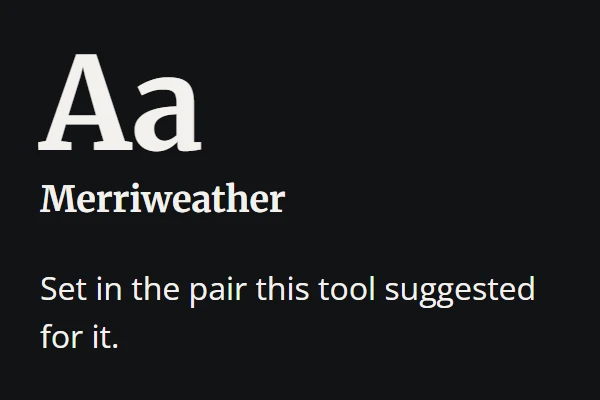
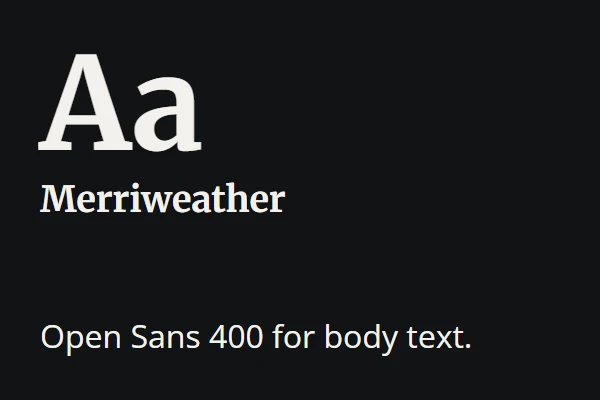
Wall art: each type pair prints its own body-face line, guide tile gets equal paper both sides
The generator also follows the export panel's format picker. Two runs on a warm cache give identical bytes.

Changed region(s): [[0.06, 0.69, 0.9, 0.78], [0.06, 0.81, 0.78, 0.9]]

diff --git a/src/data/authWall.generated.js b/src/data/authWall.generated.js
@@ -9,44 +9,44 @@ export const AUTH_WALL_GENERATED = {
     "f-merriweather-open-sans-dark.webp": {
       "width": 600,
       "height": 400,
-      "bytes": 13610,
[1 lines of base64/hex data omitted]
+      "bytes": 11908,
[1 lines of base64/hex data omitted]
     },
     "f-merriweather-open-sans-light.webp": {
       "width": 600,
       "height": 400,
-      "bytes": 13502,
[1 lines of base64/hex data omitted]
+      "bytes": 11776,
[1 lines of base64/hex data omitted]
     },
     "f-playfair-roboto-dark.webp": {
       "width": 600,
       "height": 400,
-      "bytes": 14064,
[1 lines of base64/hex data omitted]
+      "bytes": 11860,
[1 lines of base64/hex data omitted]
     },
     "f-playfair-roboto-light.webp": {
       "width": 600,
       "height": 400,
-      "bytes": 13804,
[1 lines of base64/hex data omitted]
+      "bytes": 11588,
[1 lines of base64/hex data omitted]
     },
     "f-space-grotesk-bitter-dark.webp": {
       "width": 600,
       "height": 400,
-      "bytes": 14104,
[1 lines of base64/hex data omitted]
+      "bytes": 11164,
[1 lines of base64/hex data omitted]
     },
     "f-space-grotesk-bitter-light.webp": {
       "width": 600,
       "height": 400,
-      "bytes": 13948,
[1 lines of base64/hex data omitted]
+      "bytes": 10878,
[1 lines of base64/hex data omitted]
     },
     "g-ocean-deep-guide.webp": {
       "width": 600,
       "height": 270,
-      "bytes": 16580,
[1 lines of base64/hex data omitted]
+      "bytes": 16374,
[1 lines of base64/hex data omitted]
     },
     "p-forest-floor.webp": {
       "width": 600,
@@ -82,7 +82,7 @@ export const AUTH_WALL_GENERATED = {
         "#A5D7E8"
       ],
[3 lines of base64/hex data omitted]
       "rawName": "uil4b-palette.png"
     },
     "p-forest-floor": {
@@ -93,7 +93,7 @@ export const AUTH_WALL_GENERATED = {
         "#F5EFE6"
       ],
[3 lines of base64/hex data omitted]
       "rawName": "uil4b-palette.png"
     },
     "p-paper-ink": {
@@ -104,7 +104,7 @@ export const AUTH_WALL_GENERATED = {
         "#112D4E"
       ],
[3 lines of base64/hex data omitted]
       "rawName": "uil4b-palette.png"
     },
     "p-terracotta-dusk": {
@@ -115,7 +115,7 @@ export const AUTH_WALL_GENERATED = {
         "#E76F51"
       ],
[3 lines of base64/hex data omitted]
       "rawName": "uil4b-palette.png"
     }
   },
@@ -139,6 +139,7 @@ export const AUTH_WALL_GENERATED = {
         "Montserrat",
         "IBM Plex Mono"
       ],
+      "specimenLine": "Roboto 400 for body text.",
[1 lines of base64/hex data omitted]
     },
     "f-space-grotesk-bitter": {
@@ -160,6 +161,7 @@ export const AUTH_WALL_GENERATED = {
         "Source Serif 4",
         "Montserrat"
       ],
+      "specimenLine": "Bitter 400 for body text.",
[1 lines of base64/hex data omitted]
     },
     "f-merriweather-open-sans": {
@@ -181,6 +183,7 @@ export const AUTH_WALL_GENERATED = {
         "Montserrat",
         "IBM Plex Mono"
       ],
+      "specimenLine": "Open Sans 400 for body text.",
[1 lines of base64/hex data omitted]
     }
   },
@@ -351,23 +354,23 @@ export const AUTH_WALL_GENERATED = {
       "steps": [
         {
           "step": "50",
-          "hex": "#CCF4FF"
+          "hex": "#F0F5FF"
         },
         {
           "step": "100",
-          "hex": "#ACDAFF"
+          "hex": "#CADCFF"
         },
         {
           "step": "200",
-          "hex": "#8DBFFF"
+          "hex": "#A4C2FF"
         },
         {
           "step": "300",
-          "hex": "#6EA4FF"
+          "hex": "#7EA7FF"
         },
         {
           "step": "400",
-          "hex": "#5188FF"
+          "hex": "#588BFF"
         },
         {
           "step": "500",
@@ -394,22 +397,22 @@ export const AUTH_WALL_GENERATED = {
           "hex": "#000349"
         }
       ],
[2 lines of base64/hex data omitted]
     },
     "t-e76f51": {
       "source": "#E76F51",
       "steps": [
         {
           "step": "50",
-          "hex": "#FFE2CB"
+          "hex": "#FFF2EE"
         },
         {
           "step": "100",
-          "hex": "#FFC5AB"
+          "hex": "#FFCFC0"
         },
         {
           "step": "200",
-          "hex": "#FFA88C"
+          "hex": "#FFAA8F"
         },
         {
           "step": "300",
@@ -437,14 +440,14 @@ export const AUTH_WALL_GENERATED = {
         },
         {
           "step": "900",
-          "hex": "#4B0900"
+          "hex": "#480F00"
         },
         {
           "step": "950",
-          "hex": "#300000"
+          "hex": "#2B0400"
         }
       ],
[2 lines of base64/hex data omitted]
     }
   },
   "code": {
@@ -494,10 +497,11 @@ export const AUTH_WALL_GENERATED = {
[1 lines of base64/hex data omitted]
     "crop": {
       "x": 150.8720703125,
-      "y": 468,
-      "w": 402.67,
-      "h": 192,
+      "y": 464.4672454833984,
+      "w": 418.37,
+      "h": 199.0655090332031,
       "padLeft": 24,
+      "padRight": 24,
       "ladderRows": 4
     }
   },
@@ -515,7 +519,7 @@ export const AUTH_WALL_GENERATED = {
         "top": 20,
         "bottom": 20,
         "scrollH": 200,
-        "lineH": 48,
+        "lineH": 24,
         "nameW": 260
       },
       "at217": 11.57
@@ -533,7 +537,7 @@ export const AUTH_WALL_GENERATED = {
         "top": 20,
         "bottom": 20,
         "scrollH": 200,
-        "lineH": 48,
+        "lineH": 24,
         "nameW": 260
       },
       "at217": 11.57
@@ -541,8 +545,8 @@ export const AUTH_WALL_GENERATED = {
     "g-ocean-deep-guide": {
       "text": true,
       "minTextCssPx": 25,
-      "artCssWidth": 426.67,
-      "at217": 12.71,
+      "artCssWidth": 442.37,
+      "at217": 12.26,
       "widestRow": 393
     },
     "p-paper-ink": {
@@ -558,7 +562,7 @@ export const AUTH_WALL_GENERATED = {
         "top": 20,
         "bottom": 20,
         "scrollH": 200,
-        "lineH": 48,
+        "lineH": 24,
         "nameW": 260
       },
       "at217": 11.57
